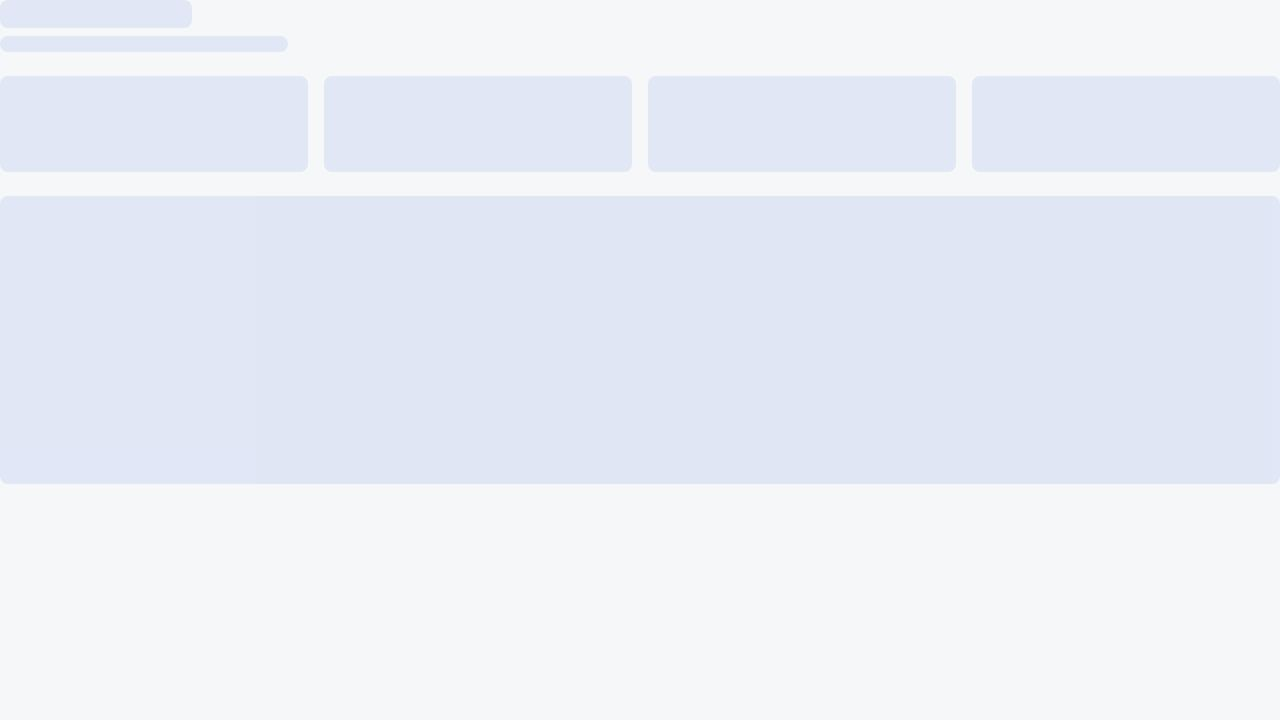
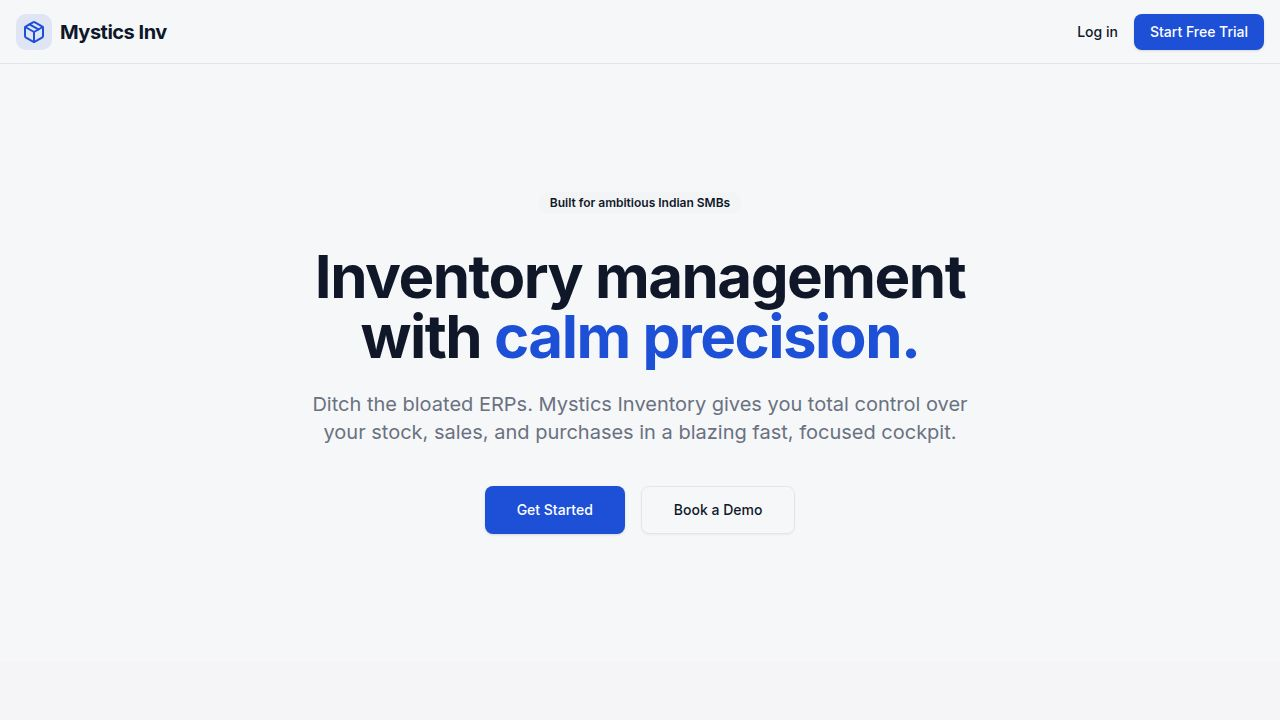
Add light/dark theme toggle to Mystics Inventory
Task #10: Let users switch between light and dark mode.

What changed
- New `artifacts/inventory/src/lib/theme.ts`: ThemeProvider + useTheme hook.
  Supports "light", "dark", and "system" modes. Persists to localStorage
  under key `mystics-theme`. On a fresh visit (no stored value) it follows
  the OS `prefers-color-scheme`. When in "system" mode it live-updates if
  the OS preference changes.
- New `artifacts/inventory/src/components/ThemeToggle.tsx`: sun/moon icon
  button (with smooth rotate/scale transition between icons) wired to
  toggle the resolved theme. data-testid="btn-theme-toggle".
- `artifacts/inventory/src/components/Topbar.tsx`: ThemeToggle placed in
  the top bar, just before the user menu (visible on every protected page).
- `artifacts/inventory/src/App.tsx`: app is wrapped in <ThemeProvider />.
- `artifacts/inventory/index.html`: small inline script reads the stored
  theme (or OS preference) and applies the `.dark` class + `color-scheme`
  on <html> before React mounts, so there's no light-mode flash on reload.

Implementation notes
- Theme is applied by toggling the `dark` class on `document.documentElement`,
  matching the existing `@user dark (&:is(.dark *));` setup and the
  `.dark { ... }` token block already in `src/index.css`. No new CSS needed.
- The toggle button writes either "light" or "dark" to localStorage (it never
  flips into "system" via the button), but the provider still understands
[…]

diff --git a/artifacts/inventory/src/lib/theme.ts b/artifacts/inventory/src/lib/theme.ts
@@ -1,0 +1,119 @@
+import {
+  createContext,
+  createElement,
+  useCallback,
+  useContext,
+  useEffect,
+  useMemo,
+  useState,
+  type ReactNode,
+} from "react";
+
+export type Theme = "light" | "dark" | "system";
+export type ResolvedTheme = "light" | "dark";
+
+const STORAGE_KEY = "mystics-theme";
+
+type ThemeContextValue = {
+  theme: Theme;
+  resolvedTheme: ResolvedTheme;
+  setTheme: (theme: Theme) => void;
+  toggleTheme: () => void;
+};
+
+const ThemeContext = createContext<ThemeContextValue | undefined>(undefined);
+
+function readStoredTheme(): Theme {
+  if (typeof window === "undefined") return "system";
+  try {
+    const stored = window.localStorage.getItem(STORAGE_KEY);
+    if (stored === "light" || stored === "dark" || stored === "system") {
+      return stored;
+    }
+  } catch {
+    // ignore storage errors (private mode, etc.)
+  }
+  return "system";
+}
+
+function getSystemTheme(): ResolvedTheme {
+  if (typeof window === "undefined" || !window.matchMedia) return "light";
+  return window.matchMedia("(prefers-color-scheme: dark)").matches
+    ? "dark"
+    : "light";
+}
+
+function resolve(theme: Theme): ResolvedTheme {
+  return theme === "system" ? getSystemTheme() : theme;
+}
+
+function applyTheme(resolved: ResolvedTheme) {
+  if (typeof document === "undefined") return;
+  const root = document.documentElement;
+  root.classList.toggle("dark", resolved === "dark");
+  root.style.colorScheme = resolved;
+}
+
+export function ThemeProvider({ children }: { children: ReactNode }) {
+  const [theme, setThemeState] = useState<Theme>(() => readStoredTheme());
+  const [resolvedTheme, setResolvedTheme] = useState<ResolvedTheme>(() =>
+    resolve(readStoredTheme()),
+  );
+
+  useEffect(() => {
+    const next = resolve(theme);
+    setResolvedTheme(next);
+    applyTheme(next);
+  }, [theme]);
+
+  useEffect(() => {
+    if (theme !== "system" || typeof window === "undefined" || !window.matchMedia) {
+      return;
+    }
+    const media = window.matchMedia("(prefers-color-scheme: dark)");
+    const onChange = () => {
+      const next: ResolvedTheme = media.matches ? "dark" : "light";
+      setResolvedTheme(next);
+      applyTheme(next);
+    };
+    media.addEventListener("change", onChange);
+    return () => media.removeEventListener("change", onChange);
+  }, [theme]);
+
+  const setTheme = useCallback((next: Theme) => {
+    setThemeState(next);
+    try {
+      window.localStorage.setItem(STORAGE_KEY, next);
+    } catch {
+      // ignore storage errors
+    }
+  }, []);
+
+  const toggleTheme = useCallback(() => {
+    setThemeState((current) => {
+      const currentResolved = resolve(current);
+      const next: Theme = currentResolved === "dark" ? "light" : "dark";
+      try {
+        window.localStorage.setItem(STORAGE_KEY, next);
+      } catch {
+        // ignore
+      }
+      return next;
+    });
+  }, []);
+
+  const value = useMemo<ThemeContextValue>(
+    () => ({ theme, resolvedTheme, setTheme, toggleTheme }),
+    [theme, resolvedTheme, setTheme, toggleTheme],
+  );
+
+  return createElement(ThemeContext.Provider, { value }, children);
+}
+
+export function useTheme(): ThemeContextValue {
+  const ctx = useContext(ThemeContext);
+  if (!ctx) {
+    throw new Error("useTheme must be used within a ThemeProvider");
+  }
+  return ctx;
+}

diff --git a/artifacts/inventory/src/components/ThemeToggle.tsx b/artifacts/inventory/src/components/ThemeToggle.tsx
@@ -1,0 +1,25 @@
+import { Moon, Sun } from "lucide-react";
+import { Button } from "@/components/ui/button";
+import { useTheme } from "@/lib/theme";
+
+export function ThemeToggle() {
+  const { resolvedTheme, toggleTheme } = useTheme();
+  const isDark = resolvedTheme === "dark";
+  const label = isDark ? "Switch to light mode" : "Switch to dark mode";
+
+  return (
+    <Button
+      variant="ghost"
+      size="icon"
+      onClick={toggleTheme}
+      aria-label={label}
+      title={label}
+      className="relative h-9 w-9"
+      data-testid="btn-theme-toggle"
+    >
+      <Sun className="h-[1.15rem] w-[1.15rem] rotate-0 scale-100 transition-transform duration-200 dark:-rotate-90 dark:scale-0" />
+      <Moon className="absolute h-[1.15rem] w-[1.15rem] rotate-90 scale-0 transition-transform duration-200 dark:rotate-0 dark:scale-100" />
+      <span className="sr-only">{label}</span>
+    </Button>
+  );
+}

diff --git a/artifacts/inventory/index.html b/artifacts/inventory/index.html
@@ -8,6 +8,21 @@
     <link rel="preconnect" href="https://fonts.googleapis.com">
     <link rel="preconnect" href="https://fonts.gstatic.com" crossorigin>
     <link href="https://fonts.googleapis.com/css2?family=Inter:wght@400;500;600;700&display=swap" rel="stylesheet">
+    <script>
+      (function () {
+        try {
+          var stored = localStorage.getItem("mystics-theme");
+          var prefersDark = window.matchMedia && window.matchMedia("(prefers-color-scheme: dark)").matches;
+          var resolved = stored === "dark" || stored === "light"
+            ? stored
+            : (prefersDark ? "dark" : "light");
+          if (resolved === "dark") {
+            document.documentElement.classList.add("dark");
+          }
+          document.documentElement.style.colorScheme = resolved;
+        } catch (e) {}
+      })();
+    </script>
   </head>
   <body>
     <div id="root"></div>

diff --git a/artifacts/inventory/src/App.tsx b/artifacts/inventory/src/App.tsx
@@ -8,6 +8,7 @@ import { lazy, Suspense, useEffect, useRef } from "react";
 import { clerkAppearance } from "@/lib/clerk-appearance";
 import { AppShell } from "@/components/AppShell";
 import { RouteFallback } from "@/components/RouteFallback";
+import { ThemeProvider } from "@/lib/theme";
 
 // Code-split every page so the initial bundle is small and TTI is fast.
 // Pages load on demand and stay cached after the first visit.
@@ -174,12 +175,14 @@ function ClerkProviderWithRoutes() {
 
 function App() {
   return (
-    <TooltipProvider>
-      <WouterRouter base={basePath}>
-        <ClerkProviderWithRoutes />
-      </WouterRouter>
-      <Toaster />
-    </TooltipProvider>
+    <ThemeProvider>
+      <TooltipProvider>
+        <WouterRouter base={basePath}>
+          <ClerkProviderWithRoutes />
+        </WouterRouter>
+        <Toaster />
+      </TooltipProvider>
+    </ThemeProvider>
   );
 }
 

diff --git a/artifacts/inventory/src/components/Topbar.tsx b/artifacts/inventory/src/components/Topbar.tsx
@@ -3,6 +3,7 @@ import { Button } from "@/components/ui/button";
 import { Sheet, SheetContent, SheetTrigger } from "@/components/ui/sheet";
 import { UserMenu } from "./UserMenu";
 import { Sidebar } from "./Sidebar";
+import { ThemeToggle } from "./ThemeToggle";
 import { useCommandPalette } from "./CommandPalette";
 import { useEffect, useState } from "react";
 
@@ -72,6 +73,7 @@ export function Topbar() {
       </div>
 
       <div className="flex items-center gap-2 shrink-0">
+        <ThemeToggle />
         <UserMenu />
       </div>
     </header>